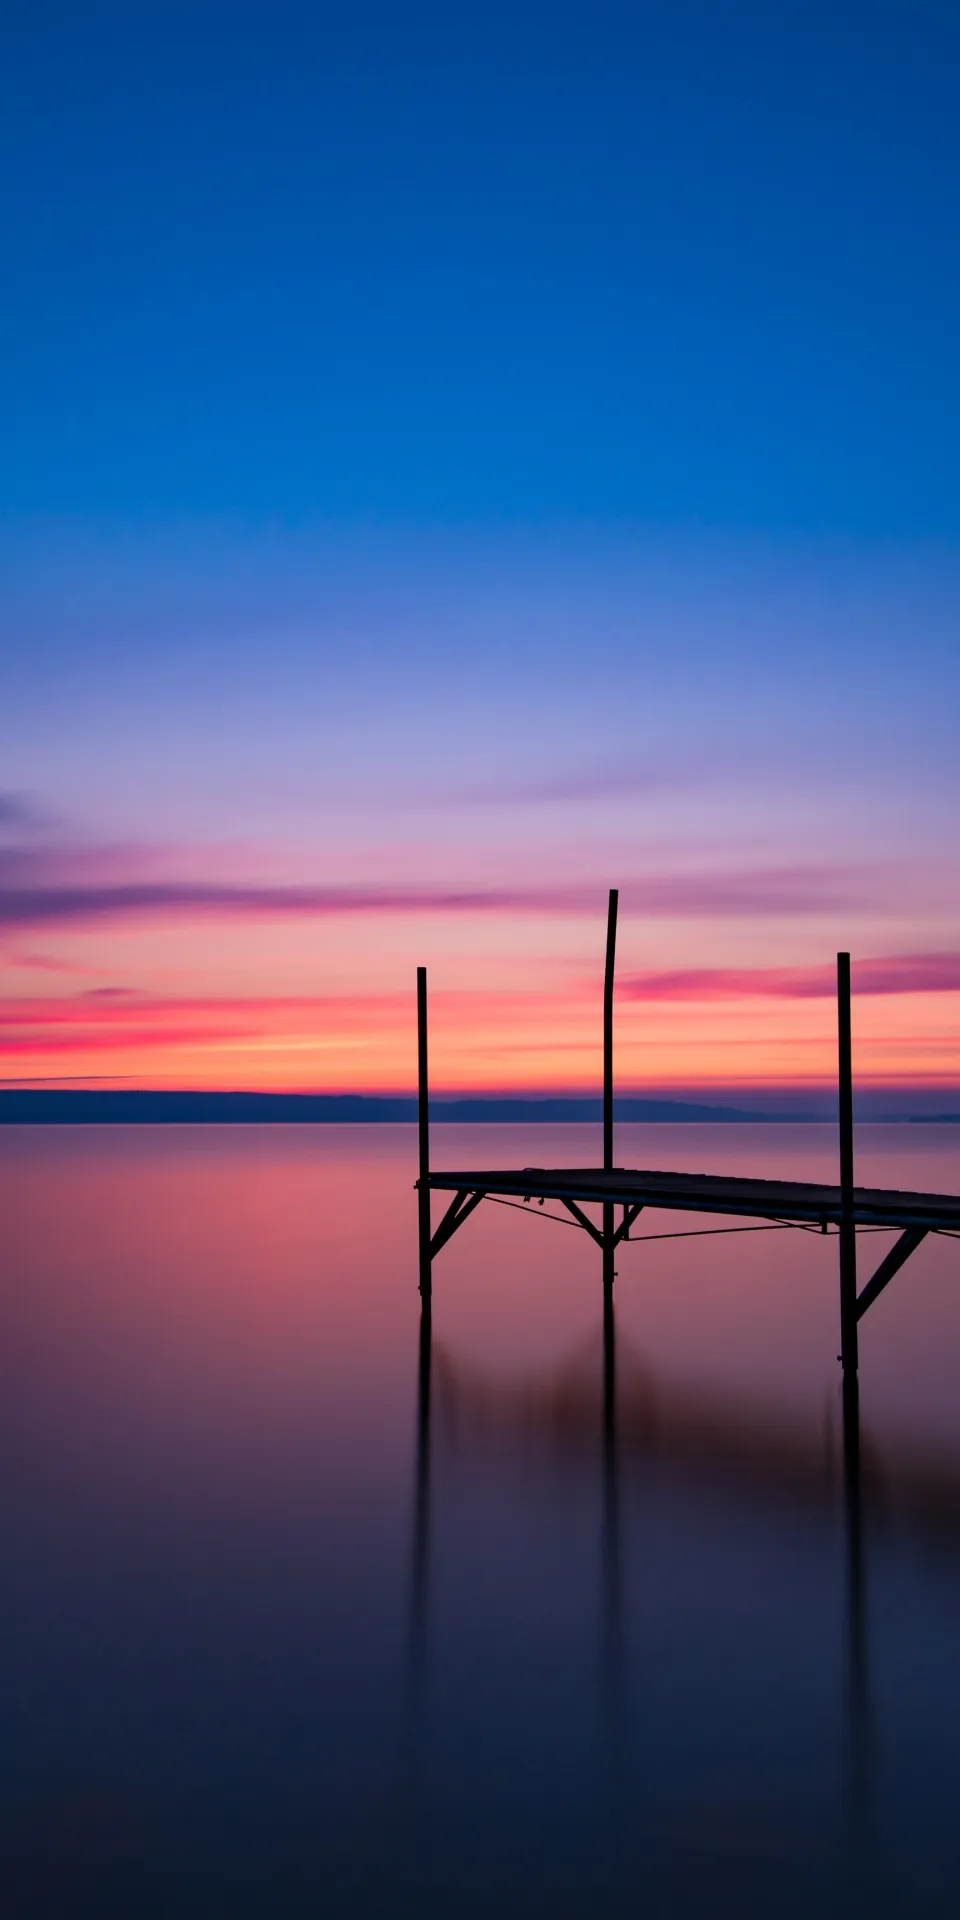
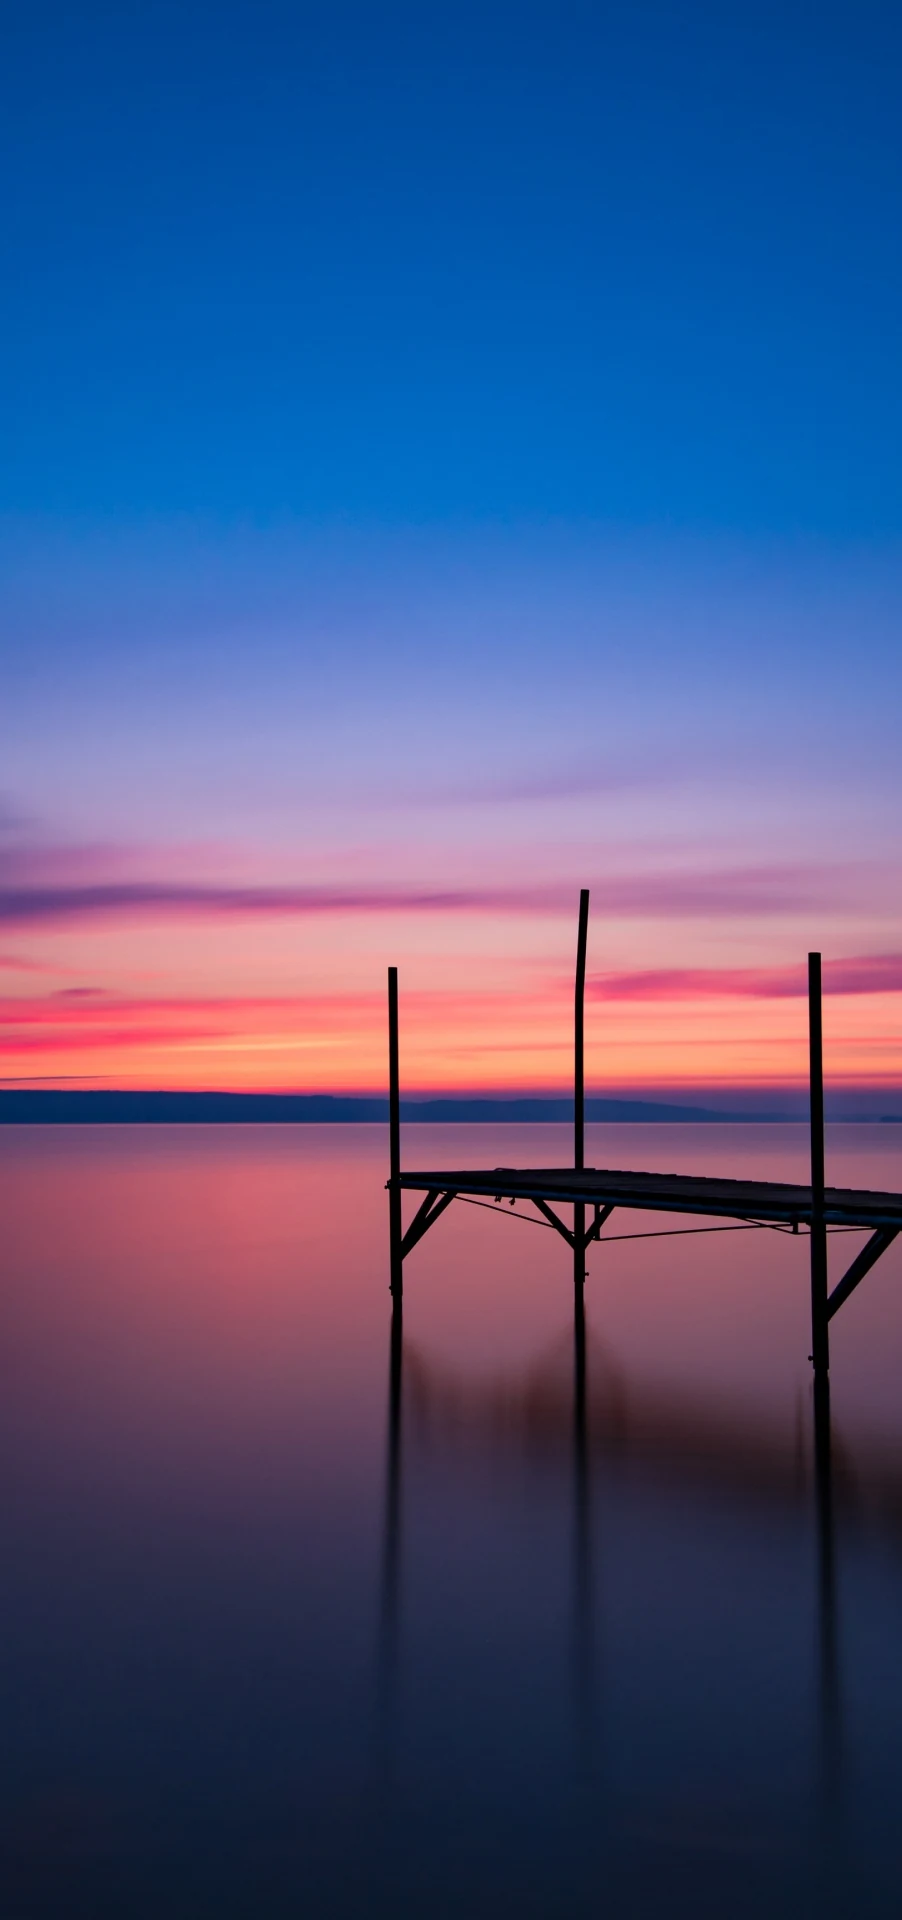
Scenes: pre-crop photos to the screen around their subject, max 2048 px
Android (Fresco) halves any image taller than 2048 px before drawing it, so bigger files
only got blurrier. Each photo is now cropped from the original to the screen's shape with
its subject about a third of the way down and at most 2048 px tall, so it's drawn at full
detail; the code no longer shifts the photo, it just fills the screen. ~1.8 MB total.

diff --git a/apps/mobile/components/SceneBackdrop.tsx b/apps/mobile/components/SceneBackdrop.tsx
@@ -1,7 +1,7 @@
 import { LinearGradient } from 'expo-linear-gradient';
 import { useIsFocused } from 'expo-router';
 import { useEffect } from 'react';
-import { StyleSheet, useWindowDimensions, View } from 'react-native';
+import { StyleSheet, View } from 'react-native';
 import Animated, {
   cancelAnimation,
   Easing,
@@ -15,23 +15,17 @@ import Animated, {
 import { colors, timeOfDay, withAlpha, type TimeOfDay } from '@/constants/theme';
 import { useHour } from '@/lib/useHour';
 
-/** Chinmay's photos, converted to WebP (up to 3300 px tall); sources in assets/scenes/CREDITS.md. */
+/**
+ * Chinmay's photos, pre-cropped to the screen's shape around their subject (which sits about a
+ * third of the way down) and at most 2048 px tall: Android halves anything taller before drawing
+ * it, which made bigger files look blurrier. Sources in assets/scenes/CREDITS.md.
+ */
 const SCENES: Record<TimeOfDay, number> = {
   dawn: require('@/assets/scenes/dawn.webp'),
   day: require('@/assets/scenes/day.webp'),
   dusk: require('@/assets/scenes/dusk.webp'),
   night: require('@/assets/scenes/night.webp'),
 };
-
-/**
- * Where each photo's best part is (mountain, horizon), as a fraction of its height. The photo is
- * lifted so that point lands at FOCUS_AT of the screen, in the open space at the top instead of
- * behind the cards further down.
- */
-// dawn: horizon and pier; day: the tree; dusk: lamp and bridge; night: the Milky Way fills the
-// whole photo, so it isn't lifted.
-const FOCUS: Record<TimeOfDay, number> = { dawn: 0.52, day: 0.48, dusk: 0.56, night: 0.3 };
-const FOCUS_AT = 0.3;
 
 /** One slow push-in and back, ms. */
 const DRIFT_MS = 40000;
@@ -48,9 +42,6 @@ export function SceneBackdrop({ color }: { color: string }) {
   const reduced = useReducedMotion();
   const scene = timeOfDay(useHour(focused));
   const clock = colors.timeOfDay[scene];
-  const { height } = useWindowDimensions();
-  // Only ever lift the photo; pushing it down would leave a gap at the top.
-  const lift = Math.min(0, (FOCUS_AT - FOCUS[scene]) * height);
   const t = useSharedValue(0);
 
   useEffect(() => {
@@ -63,8 +54,7 @@ export function SceneBackdrop({ color }: { color: string }) {
   }, [focused, reduced, t]);
 
   const drift = useAnimatedStyle(() => ({
-    // A slow sideways drift; the 3% zoom just hides the edges. Photos 3300 px tall are never shown
-    // enlarged even on a 1440 x 3200 screen (enlarging is what makes them blurry).
+    // A slow sideways drift; the 3% zoom just hides the edges.
     transform: [{ scale: 1.03 }, { translateX: -5 + 10 * t.value }],
   }));
 
@@ -73,11 +63,9 @@ export function SceneBackdrop({ color }: { color: string }) {
       <Animated.Image
         source={SCENES[scene]}
         resizeMode="cover"
-        // Android otherwise halves any image taller than 2048 px before drawing it (Fresco's
-        // automatic downsampling), which is what made the photos blurry. "none" keeps full
-        // resolution: ~20 MB for the one photo on screen, shared by every screen.
+        // Never let Android shrink the photo before drawing it; at <= 2048 px it wouldn't anyway.
         resizeMethod="none"
-        style={[{ position: 'absolute', left: 0, right: 0, top: lift, height }, drift]}
+        style={[StyleSheet.absoluteFill, drift]}
       />
       <LinearGradient
         colors={[withAlpha(color, 0.24), withAlpha(color, 0.06), 'transparent']}

diff --git a/design-system/my-fitness-app/MASTER.md b/design-system/my-fitness-app/MASTER.md
@@ -15,7 +15,7 @@ Its Fitness/Gym match leans towards marketing sites, so this app keeps only part
 | Motion | Rings fill from 12 o'clock (1100 ms, ease-out cubic) with a counting number; bars grow in with a 35 ms stagger. All of it is skipped when the phone's "reduce motion" setting is on | One key animation per view; motion shows the value rather than decorating |
 | Haptics | Light selection tick on tapping a ring and switching tabs; light impact on pull-to-refresh. Nothing else | Feedback for touches, never a notification-like buzz |
 | Charts | **Changed (Oct 2, 2026):** a small family in `components/charts/`, all sharing one readout above the plot (picked day's value + what it means), drag-to-scrub with a light tick, and a 7D / 14D / 30D switch: **bars** (`TrendBars`, score trends), **line** with a shaded "your normal" band (HRV, resting HR), **combo** bars + line (strain vs recovery, hours slept vs needed), **donut** (sleep stage shares, tap a slice), **hypnogram** (the night stage by stage, drag to read each stage). All drawn with react-native-svg in one canvas each; one reveal animation per chart | Chinmay wanted more chart types that are easy to read, without making the app heavier |
-| Surfaces | **Changed (Oct 2, 2026):** two backgrounds, picked on the Account screen: **Scenes** (default; photos Chinmay picked for dawn, day, dusk and night (originals kept locally), bundled as WebP up to 3300 px tall, ~3 MB in total (sharpness over size, Chinmay's call), notes in `apps/mobile/assets/scenes/CREDITS.md`, drifting slowly under gradients: screen color from the top left, vivid near the top fading to the dark page lower down, a faint time-of-day glow at the bottom; bundled, not downloaded, so they show instantly and offline) or a moving "aurora" (`components/Aurora.tsx`): three soft lights drifting slowly, one the screen's color (recovery zone on Today), one following the time of day (amber dawn, coral day, pink dusk, violet night). Paused off-screen, still with reduce motion. Cards stay **glass**. Tab bar is a floating dark-glass pill of icons only, with a highlight that slides to the selected tab (`components/TabBar.tsx`) | Chinmay asked for a background that isn't solid and changes over time, and a minimal bottom bar |
+| Surfaces | **Changed (Oct 2, 2026):** two backgrounds, picked on the Account screen: **Scenes** (default; photos Chinmay picked for dawn, day, dusk and night (originals kept locally), pre-cropped to the screen's shape around the subject and at most 2048 px tall (Android halves anything taller before drawing it, which blurred them), ~1.8 MB in total, notes in `apps/mobile/assets/scenes/CREDITS.md`, drifting slowly under gradients: screen color from the top left, vivid near the top fading to the dark page lower down, a faint time-of-day glow at the bottom; bundled, not downloaded, so they show instantly and offline) or a moving "aurora" (`components/Aurora.tsx`): three soft lights drifting slowly, one the screen's color (recovery zone on Today), one following the time of day (amber dawn, coral day, pink dusk, violet night). Paused off-screen, still with reduce motion. Cards stay **glass**. Tab bar is a floating dark-glass pill of icons only, with a highlight that slides to the selected tab (`components/TabBar.tsx`) | Chinmay asked for a background that isn't solid and changes over time, and a minimal bottom bar |
 | Accessibility | Muted text ≥ 4.5:1 on cards; charts have a spoken summary (average and today); color is always paired with a label or number | Skill pro-rules checklist |
 
 Code: tokens in `apps/mobile/constants/theme.ts`, motion hooks in `apps/mobile/lib/animation.ts`,

diff --git a/apps/mobile/assets/scenes/CREDITS.md b/apps/mobile/assets/scenes/CREDITS.md
@@ -1,8 +1,9 @@
 # Background photos
 
 Chosen by Chinmay (Oct 2, 2026). Full-size originals are kept locally in `originals/` (not in git).
-The `.webp` files are converted copies: trimmed to a 1:2 portrait, at most 3300 px tall, WebP
-quality 80.
+The `.webp` files are converted copies, cropped to the screen's shape (0.47 wide per 1 tall)
+around the subject so it sits about 30% from the top, at most 2048 px tall (Android halves
+anything taller before drawing it), WebP quality 88.
 
 | Scene | Original file | Source / license |
 |---|---|---|
@@ -11,5 +12,5 @@ quality 80.
 | dusk | Dusk image.jpeg (lamp post and bridge, 3485 x 5227) | to fill in |
 | night | night image.jpg (Milky Way over a ridge, 2160 x 3840) | to fill in |
 
-To swap one: put the new photo in `originals/`, convert it to `<scene>.webp` (portrait, ideally
-3300 px tall), and adjust its `FOCUS` value in `components/SceneBackdrop.tsx`.
+To swap one: put the new photo in `originals/` and crop it the same way to `<scene>.webp`
+(keep it at most 2048 px tall; ideally at least 2048 px of source so it stays sharp).
